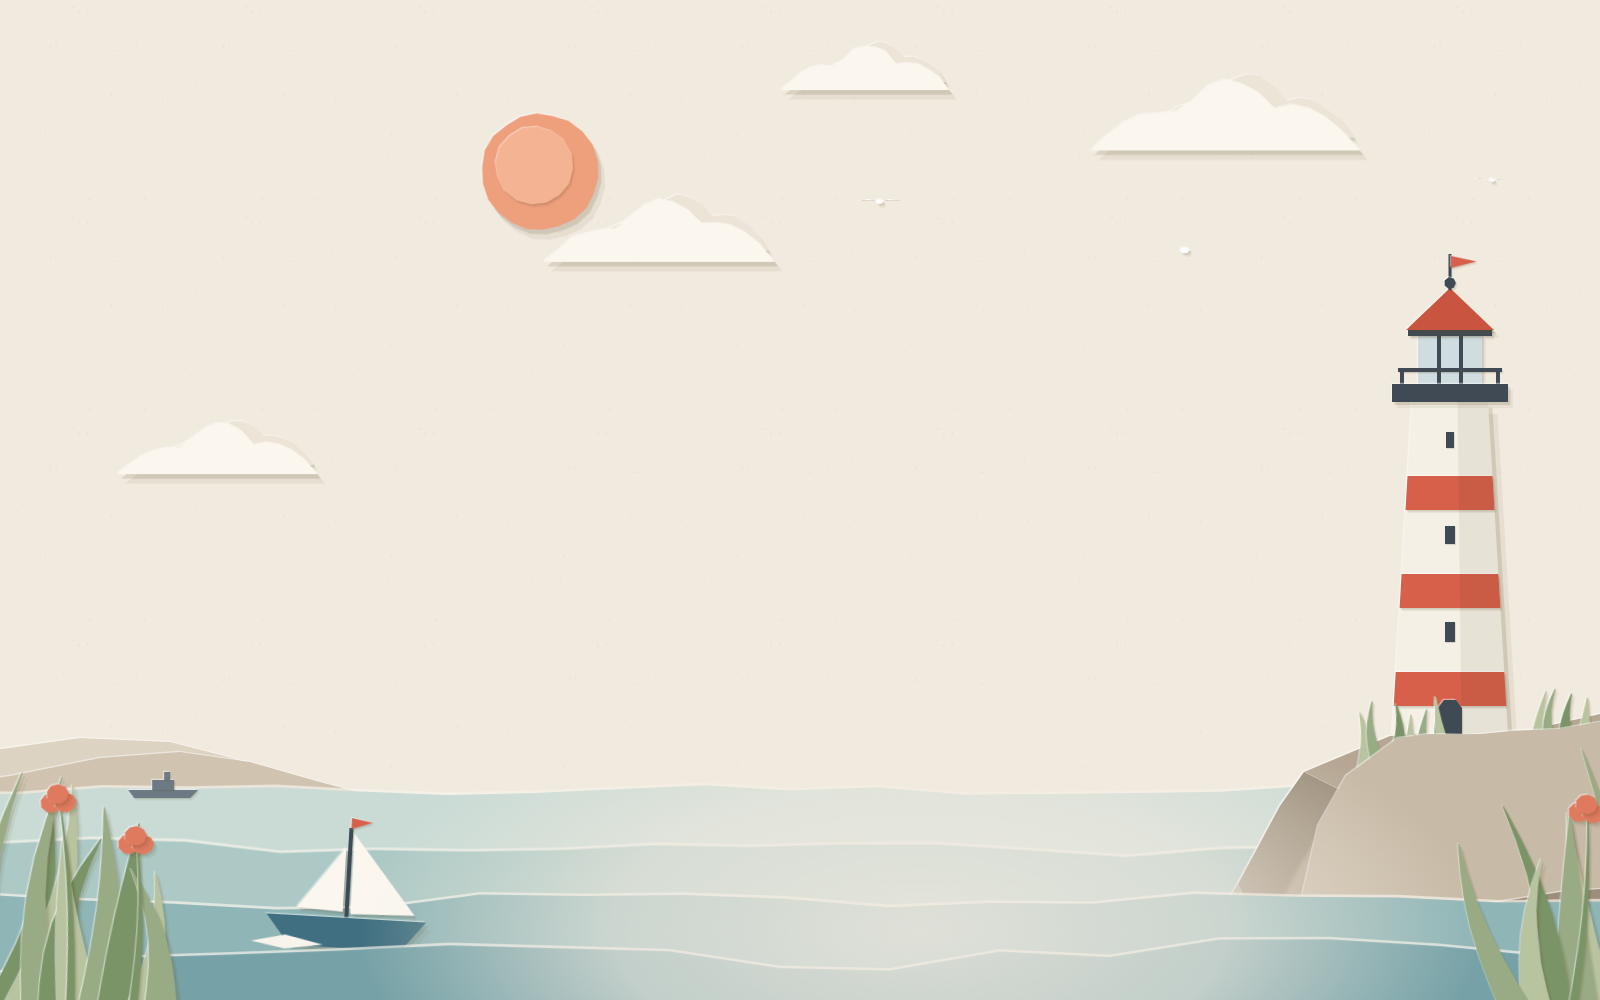
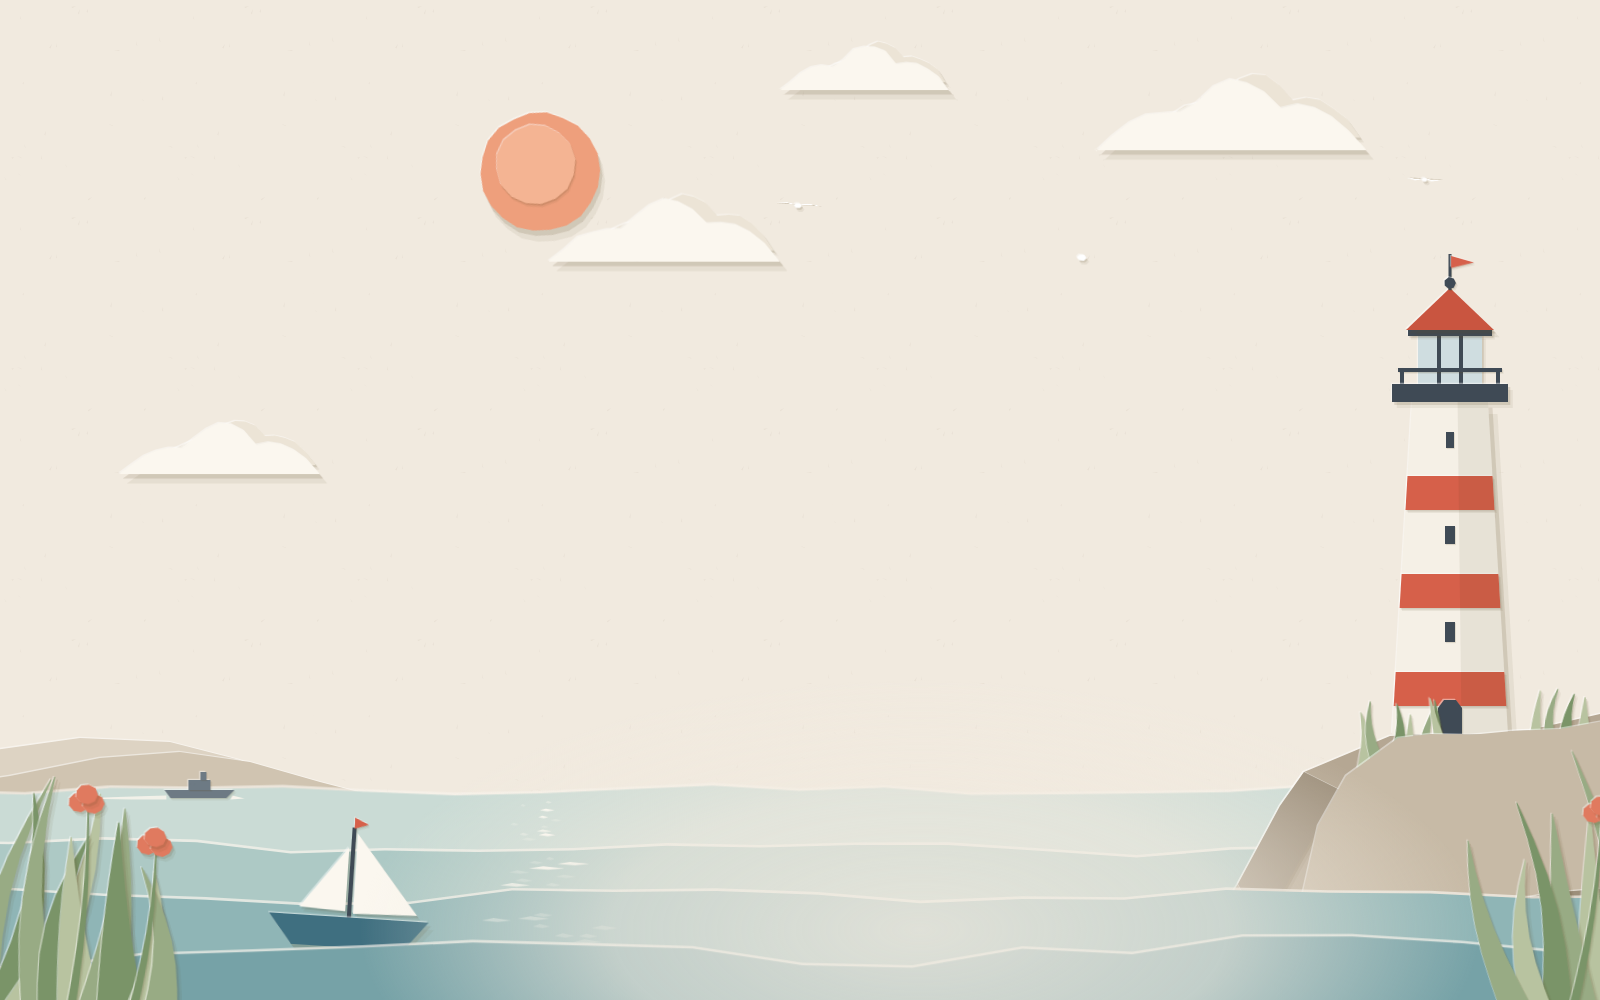
Bow splash only when the bow dips, wake behind the far ship, sun and moon path on the water
The boat's foam was glued to the hull. Now a fan of spray rises at the bow
on the bob's clock while the bow dips into a wave and settles as it lifts.
The far ship always sails one way, so it trails a shimmering wake. Slivers
under the sun (the moon at night) glint in turn on the sea layers.
Marketplace manifest gets a description.

diff --git a/hooks/scene.ts b/hooks/scene.ts
@@ -31,6 +31,7 @@ const PAINTS: Record<string, [string, string]> = {
   sea3: ['#8fb5b6', '#283f56'],
   sea4: ['#76a2a7', '#2e4962'],
   foam: ['#f8f4ec', '#6f8ca8'],
+  glint: ['#fffdf6', '#f3e7c4'],
   rock: ['#b5a793', '#2a313c'],
   rockDark: ['#9c8e7a', '#222831'],
   rockLight: ['#c7baa6', '#343c48'],
@@ -57,6 +58,8 @@ const TONES: [string, string] = [
 ]
 
 const LAMP: Point = [1450, 356]
+/** The sun by day, the moon by night: far enough right to clear the app's sidebar. */
+const SUN: Point = [540, 172]
 
 function fixed(value: number): number {
   return Number(value.toFixed(1))
@@ -190,7 +193,7 @@ function moving(cls: string, body: string, seconds: number, delay: number, origi
 function sky(): string {
   let day = ''
   let night = ''
-  const sunAt: Point = [540, 172]
+  const sunAt = SUN
   const sun = paper(shape('sun', facetEllipse(sunAt[0], sunAt[1], 60, 60, 22, 3)), 'sun', 4) +
     paper(shape('sunCore', facetEllipse(sunAt[0] - 6, sunAt[1] - 6, 40, 40, 16, 4)), 'sunCore', 1.2)
   day += moving('breathe', moving('spin', sun, 90, 0, sunAt), 9, 0, sunAt)
@@ -272,7 +275,10 @@ function sea(): string {
   const hills = paper(shape('hillFar', [[-120, 820], [-120, 770], [-20, 752], [80, 738], [170, 742], [240, 760], [300, 788], [360, 820]]), 'hillFar', 2)
   const isle = paper(shape('isle', [[-120, 820], [-120, 794], [10, 776], [100, 758], [180, 752], [250, 762], [320, 782], [420, 808], [420, 820]]), 'isle', 3)
   // A small ship far out on the horizon, crossing slowly; its light comes on at night.
+  // It always sails one way, so it trails a thin wake astern that shimmers.
   const ship = moving('cross',
+    moving('shimmer', paper(shape('shipWake', [[862, 795.5], [828, 796.5], [770, 798.4], [828, 799.6], [862, 799.4]]), 'foam', 0, false), 3.2, 0, [862, 797.5]) +
+    paper(shape('shipBow', [[928, 795.5], [940, 798.6], [926, 799.4]]), 'foam', 0, false) +
     paper(shape('shipHull', [[860, 790], [930, 790], [922, 798], [866, 798]]), 'ship', 1) +
     paper(shape('shipCabin', rect(884, 780, 906, 790)), 'ship', 0.8) +
     paper(shape('shipStack', rect(896, 772, 902, 780)), 'ship', 0.5) +
@@ -315,21 +321,51 @@ function sea(): string {
     paper(shape('mast', rect(248 + bx, 812 + by, 252 + bx, 904 + by)), 'iron', 1, false) +
     paper(shape('mainsail', [[254 + bx, 818 + by], [254 + bx, 898 + by], [318 + bx, 896 + by]]), 'sail', 2) +
     moving('wave', paper(shape('flag', [[250 + bx, 802 + by], [270 + bx, 807 + by], [250 + bx, 813 + by]]), 'flag', 1), 2.2, 1, [250 + bx, 807 + by]) +
-    paper(shape('hull', [[170 + bx, 902 + by], [330 + bx, 902 + by], [306 + bx, 932 + by], [194 + bx, 932 + by]]), 'hull', 3) +
-    paper(shape('wake', [[156 + bx, 930 + by], [190 + bx, 922 + by], [228 + bx, 930 + by], [190 + bx, 936 + by]]), 'foam', 0, false)
-  const boat = moving('sailAcross', moving('bob', boatBody, 4.5, 2, [250 + bx, 930 + by]), 70, 10)
+    paper(shape('hull', [[170 + bx, 902 + by], [330 + bx, 902 + by], [306 + bx, 932 + by], [194 + bx, 932 + by]]), 'hull', 3)
+  // The bow is on the jib's side. A splash rises there only while the bow dips into a wave: it runs on the bob's
+  // clock (same length, same start, both alternate) but outside the bob, so the foam stays on the water.
+  // A fan of paper tongues thrown forward and up from the waterline at the bow, and a few drops beyond them.
+  const tongues: [number, number, number, number, number][] = [[166, 142, 906, 12, -4], [174, 130, 894, 10, 3], [180, 160, 886, 9, -3]]
+  let spray = ''
+  tongues.forEach(([x, tx, ty, w, bend], i) => {
+    spray += paper(shape(`spray${i}`, blade(x + bx, 932 + by, tx + bx, ty + by, w, bend)), 'foam', 0.6)
+  })
+  const drops: Point[] = [[134, 888], [122, 900], [152, 878]]
+  drops.forEach(([x, y], i) => {
+    spray += paper(shape(`drop${i}`, facetEllipse(x + bx, y + by, 2.6 - i * 0.4, 2.6 - i * 0.4, 6, 84 + i)), 'foam', 0.4, false)
+  })
+  const splash = moving('splash', spray, 4.5, 2, [172 + bx, 932 + by])
+  const boat = moving('sailAcross', moving('bob', boatBody, 4.5, 2, [250 + bx, 930 + by]) + splash, 70, 10)
 
   return (
     hills + isle +
-    wave(1, 792, 8, 16, 'swell') + ship +
-    wave(2, 846, 12, 13, 'swell') +
+    wave(1, 792, 8, 16, 'swell') + glints(1, 800, 842, 12) + ship +
+    wave(2, 846, 12, 13, 'swell') + glints(2, 856, 896, 11) +
     cliff + facet + lighthouse() + footGrass + ridgeFace + ridge + pebbles + front +
-    wave(3, 900, 15, 11, 'swellBob') +
+    wave(3, 900, 15, 11, 'swellBob') + glints(3, 912, 952, 10) +
     boat +
     wave(4, 958, 17, 9, 'swellBob') +
     '<ellipse cx="920" cy="930" rx="560" ry="250" fill="url(#mist)"/>' +
     grass()
   )
+}
+
+/**
+ * The sun's path on the water by day, the moon's by night: paper slivers under it, on one sea layer, glinting in turn.
+ * They hold still while the waves slide, as a reflection stays under its light; the path widens toward the viewer.
+ */
+function glints(layer: number, top: number, bottom: number, count: number): string {
+  let out = ''
+  for (let i = 0; i < count; i += 1) {
+    const y = top + (bottom - top) * ((i + hash(i, 100 + layer)) / count)
+    const near = (y - 792) / 170
+    const x = SUN[0] + (hash(i, 110 + layer) - 0.5) * 2 * (16 + 64 * near)
+    const w = (5 + 16 * near) * (0.6 + hash(i, 120 + layer) * 0.8)
+    const h = 1.3 + near * 1.6
+    const piece = paper(shape(`glint${layer}_${i}`, [[x - w, y], [x - w * 0.2, y - h], [x + w, y], [x + w * 0.1, y + h * 0.7]]), 'glint', 0, false)
+    out += moving('glimmer', piece, 1.4 + hash(i, 130 + layer) * 2.2, hash(i, 140 + layer) * 4, [x, y])
+  }
+  return out
 }
 
 /** Dune grass and sea-pinks in the bottom corners, swaying from their roots like the Paper Garden sprigs. */
@@ -403,6 +439,13 @@ const MOTION =
   '.sway{animation:sway 6s ease-in-out infinite alternate}' +
   '.swayBack{animation:swayBack 7s ease-in-out infinite alternate}' +
   '.nod{animation:nod 7s ease-in-out infinite alternate}' +
+  '.splash{animation:splash 4.5s ease-in-out infinite alternate}' +
+  '.shimmer{animation:shimmer 3s ease-in-out infinite alternate}' +
+  '.glimmer{animation:glimmer 2s ease-in-out infinite alternate}' +
+  // The bob starts with the bow down; the splash is full there and gone once the bow has lifted a little.
+  '@keyframes splash{0%{opacity:1;transform:scale(1)}30%,100%{opacity:0;transform:scale(.5,.15)}}' +
+  '@keyframes shimmer{from{opacity:.45;transform:scaleX(.92)}to{opacity:.9;transform:scaleX(1)}}' +
+  '@keyframes glimmer{0%,30%{opacity:.22;transform:scaleX(.6)}100%{opacity:1;transform:scaleX(1.15)}}' +
   '@keyframes sweep{0%{transform:scaleX(1)}10%{transform:scaleX(.81)}20%{transform:scaleX(.31)}25%{transform:scaleX(.02)}' +
   '30%{transform:scaleX(-.31)}40%{transform:scaleX(-.81)}50%{transform:scaleX(-1)}60%{transform:scaleX(-.81)}' +
   '70%{transform:scaleX(-.31)}75%{transform:scaleX(-.02)}80%{transform:scaleX(.31)}90%{transform:scaleX(.81)}100%{transform:scaleX(1)}}' +
